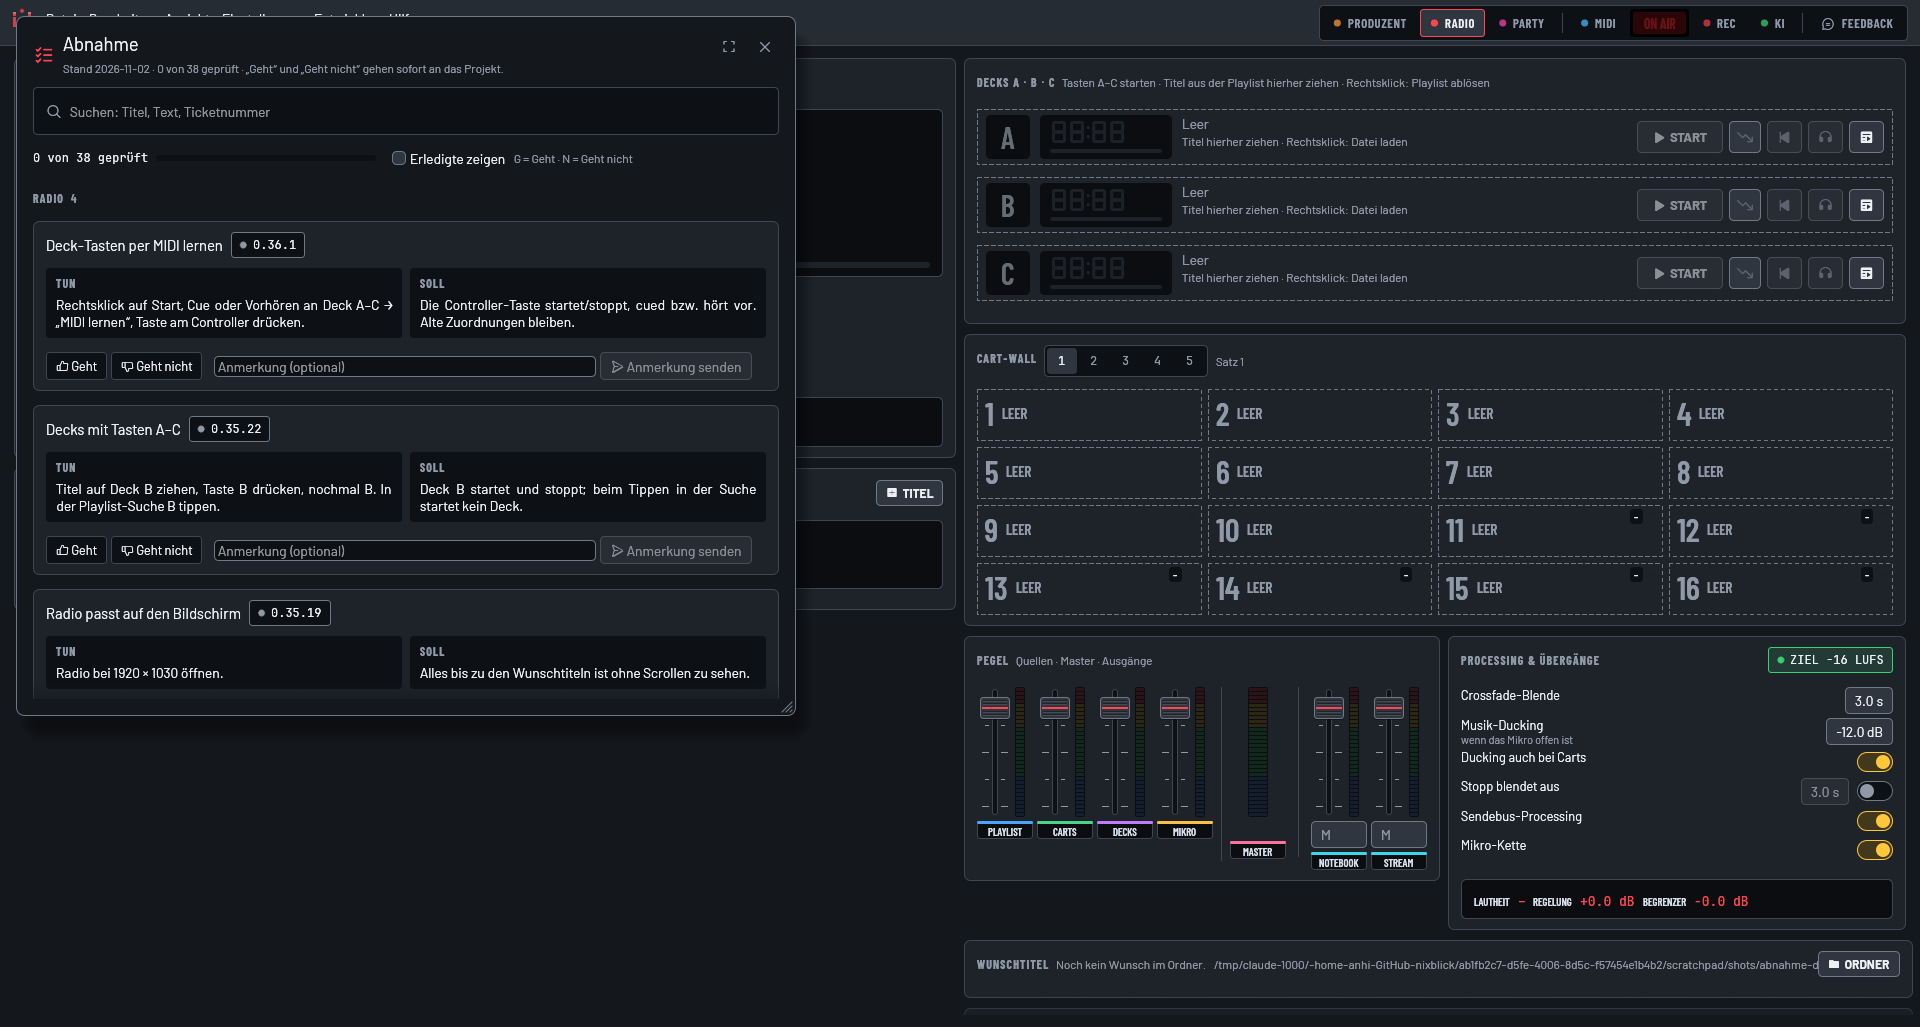
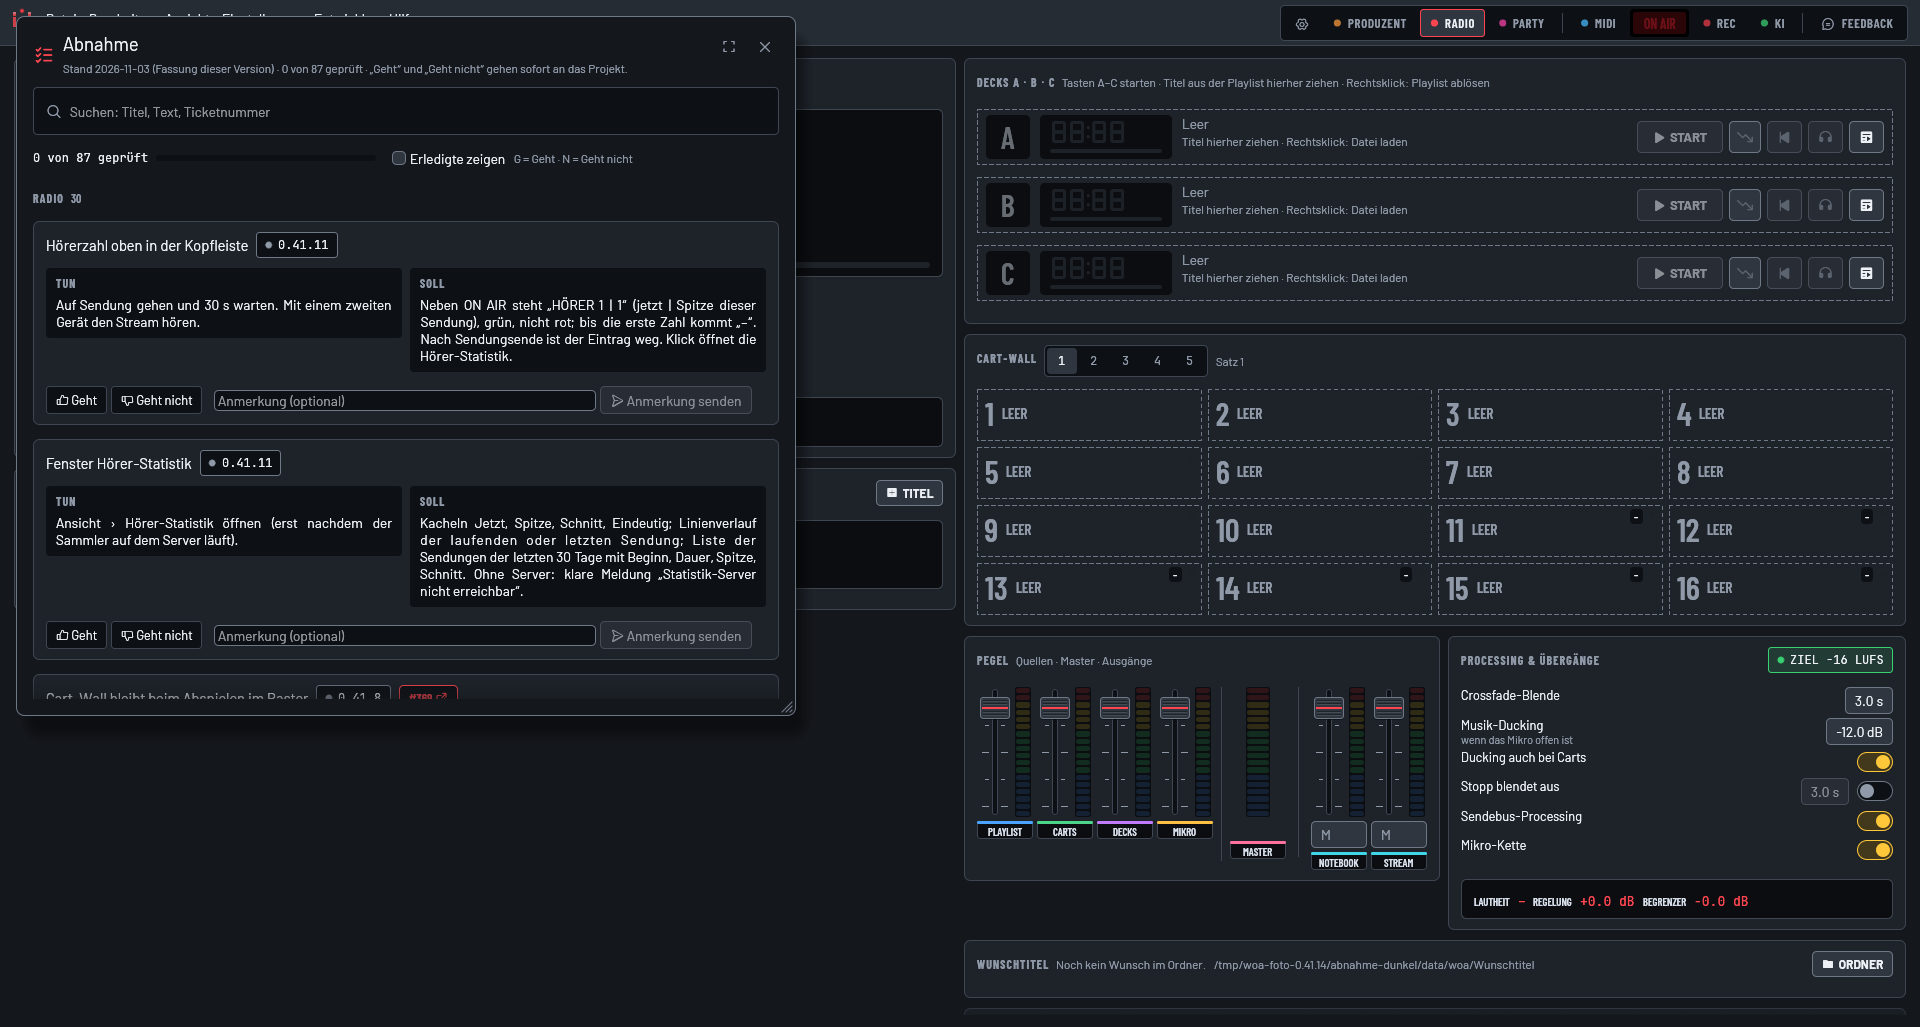
docs: retake three design shots without local user path (0.41.14)
Claude-Session: https://claude.ai/code/session_01QuarZw6S9e6mKhX4Nv2ADH

diff --git a/CHANGELOG.md b/CHANGELOG.md
@@ -1,5 +1,9 @@
 # Changelog
 
+## 0.41.14 — 2026-11-03
+
+- **Datenschutz Design-Bilder:** Drei Bilder unter `docs/design/ist/` zeigten unter WUNSCHTITEL einen Pfad mit einem lokalen Benutzernamen und sind neu im Fotomodus aufgenommen (`WOA_SCREENSHOT`, `WOA_WINDOW=1920x1030`, leerer Daten- und Konfigurationsordner unter `/tmp/woa-foto-0.41.14/`): `ist-f7-onair-dunkel-…` (`WOA_ONAIR=1`), `ist-f7-abnahme-dunkel-…` (`WOA_ABNAHME=1`), `ist-f7-fragen-dunkel-…` (`WOA_FRAGEN=1`); Dateinamen gleich, Verweise stimmen. Alle 94 PNGs unter `docs/` per Texterkennung geprüft, Wunschtitel-Leiste aller Ist-Bilder angesehen: sonst keine privaten Pfade. Die Git-Historie bleibt unverändert.
+
 ## 0.41.12 — 2026-11-03
 
 - **Hörer-Chip oben liest vom Statistik-Server:** „HÖRER x | y“ neben ON AIR nimmt `jetzt.aktuell` und die Spitze der laufenden Sendung aus `hoerer_url` (Vorgabe `https://feedback.wironair.de/api/hoerer`), höchstens alle 30 s im Hintergrund, „–“ bei Fehler. Bisher fragte woa-streamd `/7.html` am Admin-Port, der von außen zu ist, darum blieb der Chip leer. Fenster und Chip teilen sich jetzt den Abruf (`hoerer::Abruf`). Tests: `chip_numbers_come_from_the_server_answer`, `chip_stays_dash_without_test_server`.
